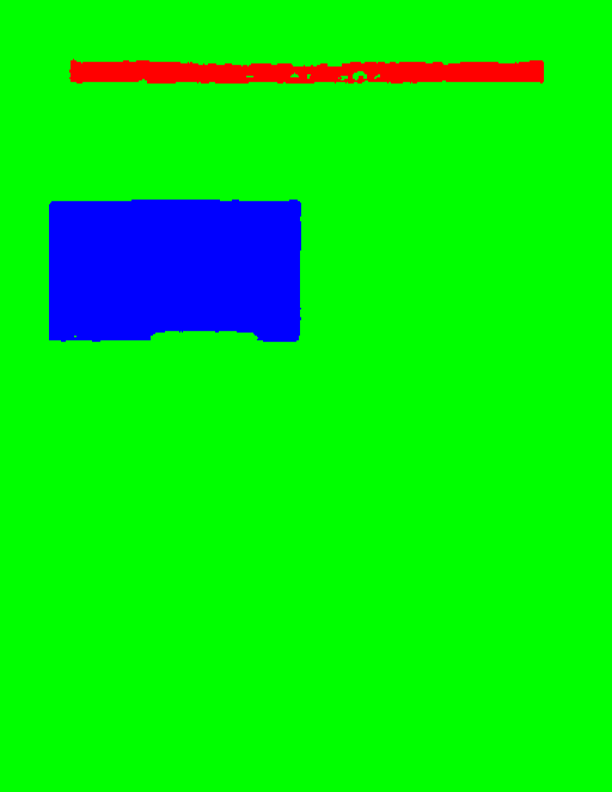
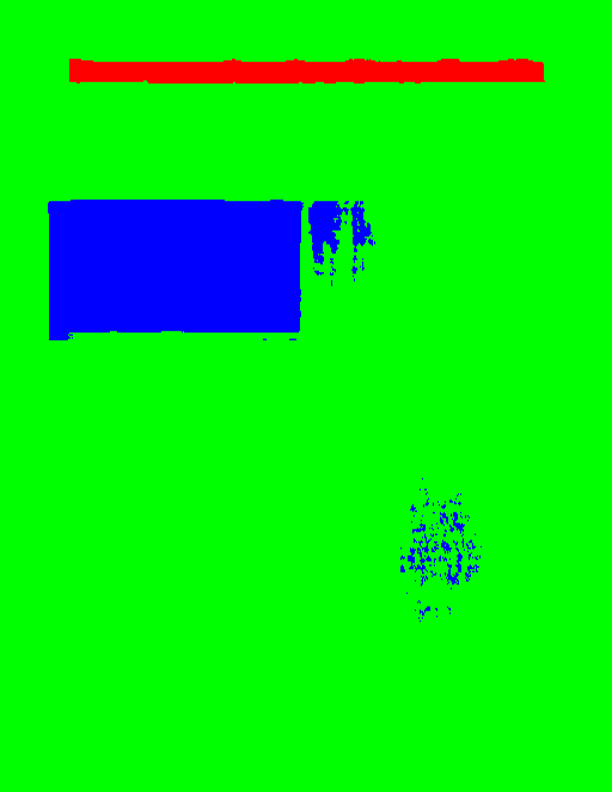
update: include residual layer

diff --git a/train.py b/train.py
@@ -39,20 +39,25 @@ def focal_tversky_loss(y_true, y_pred, gamma=0.75):
 
 
 class Unet:
-    def __init__(self, num_class, input_size=(512, 512, 1)):
+    def __init__(self, num_class, input_size=(512, 512, 1), batch_size=1):
         self.base_model = None
         self.input_size = input_size
         self.num_class = num_class
+        self.batch_size = batch_size
         self.model = self.build()
 
     def build(self):
-        def conv_block(inputs, filters, kernel_size, batch_normalization=True):
+        def conv_block(inputs, filters, kernel_size, batch_normalization=True, residual=True):
             conv = Conv2D(filters, kernel_size, activation='relu', padding='same', kernel_initializer='he_normal')(inputs)
             if batch_normalization:
                 conv = BatchNormalization()(conv)
             conv = Conv2D(filters, kernel_size, activation='relu', padding='same', kernel_initializer='he_normal')(conv)
             if batch_normalization:
                 conv = BatchNormalization()(conv)
+            if residual:
+                shortcut = Conv2D(filters, 1, activation='relu', padding='same', kernel_initializer='he_normal')(inputs)
+                shortcut = BatchNormalization()(shortcut)
+                conv = Add()([shortcut, conv])
             return conv
 
         inputs = Input(self.input_size)
@@ -135,7 +140,7 @@ class Unet:
 
         title_channel, title_other_channel = extract_channels(title_block)
         title_channel = ZeroPadding2D(padding=((0, title_channel.shape[1]), (0, 0)))(title_channel)
-        title_other_channel = Concatenate(axis=1)([title_other_channel, Ones()(shape=(batch_size,) + title_other_channel.shape[1:])])
+        title_other_channel = Concatenate(axis=1)([title_other_channel, Ones()(shape=(self.batch_size,) + title_other_channel.shape[1:])])
 
         abstract_other_channel, abstract_channel = extract_channels(abstract_block)
 
@@ -194,7 +199,7 @@ def adjust_data(img, mask, num_class):
     return img, boundary, mask
 
 
-def train_data_generator(batch_size, image_path, mask_path, image_folder, mask_folder, aug_dict, num_class, image_color_mode="grayscale",
+def train_data_generator(batch_size, image_path, mask_path, image_folder, mask_folder, aug_dict, image_color_mode="grayscale",
                          mask_color_mode="rgb", image_save_prefix="image", mask_save_prefix="mask",
                          save_to_dir=None, target_size=(512, 512), seed=1):
     """
@@ -268,15 +273,14 @@ if __name__ == "__main__":
                          horizontal_flip=True,
                          validation_split=0.2,
                          fill_mode='nearest')
-    batch_size = 1
     num_class = 3
     title = [255, 0, 0]
     abstract = [0, 0, 255]
     other = [0, 0, 0]
     color_map = np.array([title, other, abstract][:num_class])
-    generator = train_data_generator(batch_size, '/kaggle/input/dataset/train_unet', '/kaggle/input/dataset/masks_unet', 'train_unet', 'masks_unet', data_gen_args, num_class, image_color_mode="grayscale", mask_color_mode="rgb", save_to_dir=None)
+    generator = train_data_generator(1, '/kaggle/input/dataset/train_unet', '/kaggle/input/dataset/masks_unet', 'train_unet', 'masks_unet', data_gen_args, image_color_mode="grayscale", mask_color_mode="rgb", save_to_dir=None)
     train_generator = yield_generator(generator[0], generator[1])
     valid_generator = yield_generator(generator[2], generator[3])
     model = Unet(num_class)
     model_checkpoint = ModelCheckpoint('/kaggle/working/unet_membrane_title.hdf5', monitor='loss', verbose=1, save_best_only=True)
-    history = model.model.fit(train_generator, validation_data=valid_generator, validation_steps=200, steps_per_epoch=2000, epochs=20, callbacks=[model_checkpoint])
+    # history = model.model.fit(train_generator, validation_data=valid_generator, validation_steps=200, steps_per_epoch=2000, epochs=20, callbacks=[model_checkpoint])

diff --git a/test.py b/test.py
@@ -4,7 +4,7 @@ from train import *
 from PIL import Image
 
 
-def test_generator(test_path, target_size=(400, 400)):
+def test_generator(test_path, target_size=(512, 512)):
     def delineate(img):
         def sigmoid(x, c):
             return 1 / (1 + np.exp(-c * x))
@@ -71,9 +71,9 @@ def save_result(npyfile):
 
 if __name__ == "__main__":
     testGene = test_generator('./test_data/')
-    num_class = 2
+    num_class = 3
     model = Unet(num_class)
     color_map = np.eye(num_class)
-    model.model.load_weights('./unet_membrane_title_no_boundary_batchnorm.hdf5')
+    model.model.load_weights('./unet_membrane_residual.hdf5')
     results = model.model.predict(testGene, verbose=1)
     save_result(results)
